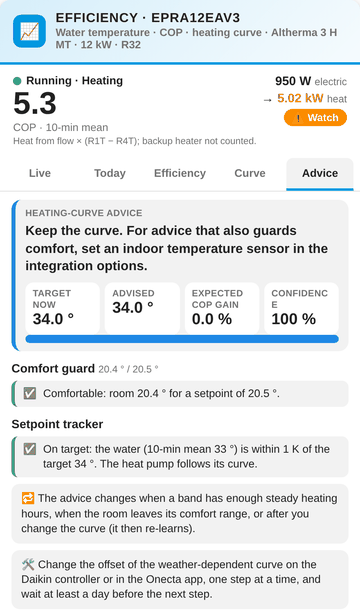
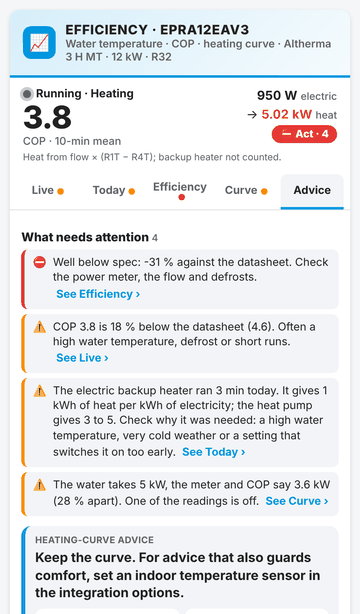
fix: Efficiency card – one list of actions behind the badge, tab dots and Advice (#476)
Part of #475.

Changed region(s): [[0.0, 0.0, 1.0, 1.0]]

diff --git a/custom_components/daikin_cycle_ml/frontend/dcm-efficiency-render.js b/custom_components/daikin_cycle_ml/frontend/dcm-efficiency-render.js
@@ -56,7 +56,8 @@
       + `<div class="big">${esc(L.running ? f.n1(cop) : "—")}</div><div class="muted">${esc(t.cop10)}</div></div>`
       + `<div class="hr"><div class="pw"><b>${esc(f.n0(L.power10 !== null ? L.power10 : L.power))} W</b> <span class="muted">${esc(t.elec)}</span></div>`
       + `<div class="pw">→ <b style="color:${C.lwt}">${esc(f.n2(L.kw10 !== null ? L.kw10 : L.kw))} kW</b> <span class="muted">${esc(t.heat_out)}</span></div>`
-      + `<div class="chip ${a.overall.lvl}">${LVL_ICON[a.overall.lvl]} ${esc(t["lvl_" + a.overall.lvl])}</div></div>`
+      + `<button class="chip ${a.overall.lvl}" data-act="todo" title="${esc(t.todo_open)}">${LVL_ICON[a.overall.lvl]} ${esc(t["lvl_" + a.overall.lvl])}`
+      + `${a.actions.length ? ` · ${a.actions.length}` : ""}</button></div>`
       + `<div class="note-s">${esc(t.heat_note)}</div></div>`;
   }
 
@@ -176,9 +177,20 @@
     return s;
   }
 
+  /* everything that needs attention, from every tab, worst first */
+  function renderTodo(a, V, t, f) {
+    const esc = P.data.esc;
+    const items = a.actions.map((x) => `<li class="vd ${x.lvl}" data-todo="${x.key}"><span class="vi">${LVL_ICON[x.lvl]}</span>`
+      + `<span>${esc(f.fill(V[x.k] || V.none, x.p, SIGNED[x.k]))}`
+      + (x.tab !== "advice" ? ` <button class="go" data-act="tab" data-tab="${x.tab}">${esc(t.todo_see)} ${esc(t["tab_" + x.tab])} ›</button>` : "")
+      + `</span></li>`).join("");
+    return `<div class="todo" id="todo">${sect(t.todo_title, a.actions.length ? String(a.actions.length) : "")}`
+      + (items ? `<ul>${items}</ul>` : `<div class="vd good"><span class="vi">${LVL_ICON.good}</span><span>${esc(t.todo_none)}</span></div>`) + `</div>`;
+  }
+
   function renderAdvice(m, a, V, t, f) {
     const A = m.advice, x = a.advice, esc = P.data.esc, L = m.live;
-    let s = `<div class="adv ${x.lvl}"><div class="tl">${esc(t.advice_title)}</div><div class="at">${esc(f.fill(V[x.k], x.p))}</div>`
+    let s = renderTodo(a, V, t, f) + `<div class="adv ${x.lvl}"><div class="tl">${esc(t.advice_title)}</div><div class="at">${esc(f.fill(V[x.k], x.p))}</div>`
       + `<div class="cells">` + tile(t.setpoint_now, f.n1(A.setpoint) + " °") + tile(t.setpoint_new, f.n1(A.target !== null ? A.target : A.setpoint) + " °")
       + tile(t.saving, f.n1(A.saving) + " %") + tile(t.confidence, f.n0(A.confidence === null ? null : A.confidence * 100) + " %") + `</div>`
       + P.charts.gauge(A.confidence === null ? null : A.confidence * 100, 100, P.charts.C.info) + `</div>`;
@@ -214,7 +226,8 @@
       + `<div class="hs">${esc(t.subtitle)}${m.meta ? " · " + esc(m.meta) : ""}</div></div></div>`;
     if (!m.ok) return head + `<div class="body"><div class="note warn">⚠ ${esc(t.not_found)}</div></div>`;
     let s = head + hero(m, a, t, f) + `<div class="tabs n${tabs.length}" role="tablist">`
-      + tabs.map((k) => `<button role="tab" class="tab${k === tab ? " on" : ""}" aria-selected="${k === tab}" data-act="tab" data-tab="${k}">${esc(t["tab_" + k])}</button>`).join("")
+      + tabs.map((k) => `<button role="tab" class="tab${k === tab ? " on" : ""}" aria-selected="${k === tab}" data-act="tab" data-tab="${k}">${esc(t["tab_" + k])}`
+        + (a.tabLvl[k] === "bad" || a.tabLvl[k] === "watch" ? `<i class="tdot ${a.tabLvl[k]}" role="img" aria-label="${esc(t["lvl_" + a.tabLvl[k]])}"></i>` : "") + `</button>`).join("")
       + `</div><div class="body">`;
     if (tab === "live") s += renderLive(m, a, V, t, f, ui, config);
     else if (tab === "today") s += renderToday(m, a, V, t, f);
@@ -225,6 +238,6 @@
     return s + `</div>`;
   }
 
-  Object.assign(P, { render: { TABS, makeFmt, render, renderHelp, helpVals } });
+  Object.assign(P, { render: { TABS, makeFmt, render, renderHelp, renderTodo, helpVals } });
   if (window.__dcmEffBoot) window.__dcmEffBoot();
 })();

diff --git a/custom_components/daikin_cycle_ml/frontend/dcm-efficiency-verdicts.js b/custom_components/daikin_cycle_ml/frontend/dcm-efficiency-verdicts.js
@@ -69,7 +69,7 @@
       td_below: "COP today {cop}, {pct} % below the datasheet ({exp}). Look at the defrosts, hot water share and short runs.",
       td_low: "COP today {cop} is well below the datasheet ({exp}). Check the Live tab for the cause.",
       ev_defrost_bad: "Defrost took {pct} % of the compressor time today ({n}×): very high. Check that the outdoor unit is free of snow, leaves and recirculating air.",
-      ev_buh: "The backup heater ran {buh} min today. It turns 1 kWh of electricity into 1 kWh of heat, the heat pump into several: check why it was needed.",
+      ev_buh: "The electric backup heater ran {buh} min today. It gives 1 kWh of heat per kWh of electricity; the heat pump gives 3 to 5. Check why it was needed: a high water temperature, very cold weather or a setting that switches it on too early.",
       ev_defrost_watch: "Defrost took {pct} % of the compressor time ({n}×): on the high side, normal in humid weather around 0 °C.",
       ev_ok_defrost: "Good: {n} defrosts ({pct} % of the compressor time), no backup heater.",
       ev_ok: "Good: no defrost and no backup heater today.",
@@ -181,7 +181,7 @@
       td_below: "COP vandaag {cop}, {pct} % onder de datasheet ({exp}). Kijk naar ontdooiingen, het warmwateraandeel en korte runs.",
       td_low: "COP vandaag {cop} ligt ruim onder de datasheet ({exp}). Kijk op het tabblad Live naar de oorzaak.",
       ev_defrost_bad: "Ontdooien nam vandaag {pct} % van de compressortijd ({n}×): erg hoog. Controleer of de buitenunit vrij is van sneeuw, bladeren en terugstromende lucht.",
-      ev_buh: "De backup-heater draaide vandaag {buh} min. Die maakt van 1 kWh stroom 1 kWh warmte, de warmtepomp meerdere: zoek uit waarom hij nodig was.",
+      ev_buh: "De elektrische bijverwarming (backup-heater) stond vandaag {buh} min aan. Die geeft 1 kWh warmte per kWh stroom; de warmtepomp geeft er 3 tot 5. Ga na waarom ze nodig was: een hoge watertemperatuur, strenge kou of een instelling die ze te vroeg inschakelt.",
       ev_defrost_watch: "Ontdooien nam {pct} % van de compressortijd ({n}×): aan de hoge kant, normaal bij vochtig weer rond 0 °C.",
       ev_ok_defrost: "Goed: {n} ontdooiingen ({pct} % van de compressortijd), geen backup-heater.",
       ev_ok: "Goed: vandaag geen ontdooiing en geen backup-heater.",
@@ -293,7 +293,7 @@
       td_below: "COP du jour {cop}, {pct} % sous la fiche ({exp}). Regardez les dégivrages, la part d'eau chaude et les cycles courts.",
       td_low: "COP du jour {cop} nettement sous la fiche ({exp}). Voyez l'onglet Direct pour la cause.",
       ev_defrost_bad: "Le dégivrage a pris {pct} % du temps compresseur aujourd'hui ({n}×) : très élevé. Vérifiez que l'unité extérieure est libre de neige, de feuilles et d'air recyclé.",
-      ev_buh: "L'appoint a fonctionné {buh} min aujourd'hui. Il transforme 1 kWh d'électricité en 1 kWh de chaleur, la pompe en plusieurs : cherchez pourquoi il a été nécessaire.",
+      ev_buh: "L'appoint électrique a fonctionné {buh} min aujourd'hui. Il donne 1 kWh de chaleur par kWh d'électricité ; la pompe à chaleur en donne 3 à 5. Vérifiez pourquoi il a été nécessaire : eau trop chaude demandée, grand froid ou réglage qui l'enclenche trop tôt.",
       ev_defrost_watch: "Le dégivrage a pris {pct} % du temps compresseur ({n}×) : plutôt élevé, normal par temps humide autour de 0 °C.",
       ev_ok_defrost: "Bien : {n} dégivrages ({pct} % du temps compresseur), pas d'appoint.",
       ev_ok: "Bien : ni dégivrage ni appoint aujourd'hui.",

diff --git a/custom_components/daikin_cycle_ml/frontend/dcm-efficiency-i18n.js b/custom_components/daikin_cycle_ml/frontend/dcm-efficiency-i18n.js
@@ -39,6 +39,7 @@
       when_change: "The advice changes when a band has enough steady heating hours, when the room leaves its comfort range, or after you change the curve (it then re-learns).",
       how_change: "Change the offset of the weather-dependent curve on the Daikin controller or in the Onecta app, one step at a time, and wait at least a day before the next step.",
       help_title: "Help", help_now: "Right now", lvl_good: "Good", lvl_watch: "Watch", lvl_bad: "Act", lvl_info: "Info",
+      todo_title: "What needs attention", todo_none: "Nothing needs attention: every check is fine.", todo_see: "See", todo_open: "Show what needs attention",
       not_found: "Daikin Cycle ML entities not found. Is the integration set up and updated?",
       h_live: [
         "The tracker compares the leaving water (10-minute mean, so a defrost or start does not count) with the target temperature of the heating curve. Within ±{trk} K is on target, more than {trkBad} K off means the unit cannot follow its curve.",
@@ -102,6 +103,7 @@
       when_change: "Het advies verandert zodra een band genoeg stabiele verwarmingsuren heeft, als de kamer buiten zijn comfortbereik komt, of nadat je de stooklijn wijzigt (hij leert dan opnieuw).",
       how_change: "Wijzig de offset van de weersafhankelijke stooklijn op de Daikin-bediening of in de Onecta-app, één stap tegelijk, en wacht minstens een dag voor de volgende stap.",
       help_title: "Uitleg", help_now: "Op dit moment", lvl_good: "Goed", lvl_watch: "Let op", lvl_bad: "Actie", lvl_info: "Info",
+      todo_title: "Wat aandacht vraagt", todo_none: "Niets vraagt aandacht: alle controles zijn in orde.", todo_see: "Zie", todo_open: "Toon wat aandacht vraagt",
       not_found: "Daikin Cycle ML-entiteiten niet gevonden. Is de integratie ingesteld en bijgewerkt?",
       h_live: [
         "De tracker vergelijkt de aanvoer (10-minutengemiddelde, zodat een ontdooiing of start niet meetelt) met de doeltemperatuur van de stooklijn. Binnen ±{trk} K is op doel, meer dan {trkBad} K ernaast betekent dat de unit zijn stooklijn niet kan volgen.",
@@ -165,6 +167,7 @@
       when_change: "Le conseil change quand une plage a assez d'heures de chauffage stable, quand la pièce sort de sa plage de confort, ou après une modification de la loi d'eau (il réapprend alors).",
       how_change: "Modifiez le décalage de la loi d'eau sur la commande Daikin ou dans l'application Onecta, un pas à la fois, et attendez au moins un jour avant le pas suivant.",
       help_title: "Aide", help_now: "En ce moment", lvl_good: "Bien", lvl_watch: "À surveiller", lvl_bad: "À corriger", lvl_info: "Info",
+      todo_title: "Points d'attention", todo_none: "Rien à signaler : tous les contrôles sont bons.", todo_see: "Voir", todo_open: "Afficher les points d'attention",
       not_found: "Entités Daikin Cycle ML introuvables. L'intégration est-elle configurée et à jour ?",
       h_live: [
         "Le suivi compare le départ (moyenne sur 10 minutes, pour qu'un dégivrage ou un démarrage ne compte pas) à la température cible de la loi d'eau. À ±{trk} K c'est sur la cible ; à plus de {trkBad} K l'unité ne suit pas sa loi d'eau.",

diff --git a/custom_components/daikin_cycle_ml/frontend/daikin-efficiency-card.js b/custom_components/daikin_cycle_ml/frontend/daikin-efficiency-card.js
@@ -30,7 +30,7 @@
 (function () {
   "use strict";
 
-  const CARD_VERSION = "1.1.0";
+  const CARD_VERSION = "1.2.0";
   const TAG = "daikin-efficiency-card";
   const EDITOR_TAG = "daikin-efficiency-card-editor";
   const PARTS = ["data", "assess", "charts", "verdicts", "i18n", "render"];
@@ -56,7 +56,12 @@
     .big { font-size: 2.4em; font-weight: 800; line-height: 1.1; font-variant-numeric: tabular-nums; }
     .hr { text-align: right; display: flex; flex-direction: column; gap: 4px; align-items: flex-end; }
     .pw { font-size: .95em; font-variant-numeric: tabular-nums; }
-    .chip { border-radius: 12px; padding: 3px 10px; font-size: .8em; font-weight: 800; color: #fff; }
+    .chip { border-radius: 12px; padding: 3px 10px; font-size: .8em; font-weight: 800; color: #fff; border: 0; font-family: inherit; cursor: pointer; }
+    .chip:focus-visible, .go:focus-visible { outline: 2px solid var(--dcm-accent, #0097E0); outline-offset: 2px; }
+    .tdot { display: inline-block; width: 8px; height: 8px; border-radius: 50%; margin-left: 4px; vertical-align: middle; }
+    .tdot.watch { background: #FB8C00; } .tdot.bad { background: #E53935; }
+    .todo { margin-bottom: 12px; } .todo ul { list-style: none; margin: 0; padding: 0; }
+    .go { border: 0; background: none; padding: 2px 0; margin-left: 4px; color: var(--dcm-accent, #0097E0); font: inherit; font-weight: 700; cursor: pointer; white-space: nowrap; }
     .chip.good { background: #43A047; } .chip.watch { background: #FB8C00; } .chip.bad { background: #E53935; } .chip.info { background: #1E88E5; }
     .note-s { grid-column: 1 / -1; font-size: .72em; color: var(--secondary-text-color); }
     .tabs { display: grid; grid-template-columns: repeat(5, 1fr); gap: 2px 4px; padding: 6px 8px 0; border-bottom: 1px solid var(--divider-color); }
@@ -125,6 +130,7 @@
     .hb { font-size: .84em; color: var(--secondary-text-color); line-height: 1.45; }
     .hb ul { margin: 4px 0 8px; padding-left: 0; list-style: none; } .hb li { margin: 3px 0; color: var(--primary-text-color); }
     .hb p { margin: 6px 0; }
+    @container (max-width: 440px) { .cells { grid-template-columns: repeat(2, 1fr); } }
     @container (max-width: 340px) { .cells, .panels { grid-template-columns: repeat(2, 1fr); } .mr { grid-template-columns: 1fr 1fr; } }
   `;
 
@@ -244,6 +250,7 @@
           const act = el.getAttribute("data-act");
           if (!act) continue;
           if (act === "tab") this._ui.tab = el.getAttribute("data-tab");
+          else if (act === "todo") this._ui.tab = "advice";
           else if (act === "range") this._ui.range = el.getAttribute("data-range");
           else if (act === "adv") this._ui.adv = !this._ui.adv;
           else if (act === "help") this._ui.help = !this._ui.help;

diff --git a/custom_components/daikin_cycle_ml/frontend/dcm-efficiency-assess.js b/custom_components/daikin_cycle_ml/frontend/dcm-efficiency-assess.js
@@ -305,7 +305,23 @@
       curve: ["curveFit", "curveLive", "carnot", "balance", "events"],
       advice: ["advice", "comfort", "tracker"],
     };
-    a.overall = worst(a.tabs.live.concat(["todayCop", "events", "sheet", "trend"]).map((k) => a[k]));
+    /* one list of what needs attention (watch / bad) over every tab, each
+       check once, at the first tab that shows it: the header badge, the
+       tab dots and the Advice tab's to-do list all read it */
+    const seen = new Set();
+    a.actions = [];
+    for (const tab of ["live", "today", "eff", "curve", "advice"]) {
+      for (const key of a.tabs[tab]) {
+        const x = a[key];
+        if (seen.has(key) || !x || (x.lvl !== "bad" && x.lvl !== "watch")) continue;
+        seen.add(key);
+        a.actions.push(Object.assign({ key, tab }, x));
+      }
+    }
+    a.actions.sort((x, y) => RANK[y.lvl] - RANK[x.lvl]);
+    a.tabLvl = {};
+    for (const tab of Object.keys(a.tabs)) a.tabLvl[tab] = worst(a.tabs[tab].map((k) => a[k])).lvl;
+    a.overall = a.actions.length ? a.actions[0] : worst(Object.keys(a.tabs).flatMap((t) => a.tabs[t]).map((k) => a[k]));
     return a;
   }
 

diff --git a/tests/test_475_efficiency_actions.py b/tests/test_475_efficiency_actions.py
@@ -1,0 +1,128 @@
+"""#475: one list of actions behind the Efficiency card's badge, tab dots and Advice.
+
+Replay of the Tweakers report: the header said "⛔ Act" while Advice said
+"Keep the curve" and nothing else. Live COP below the datasheet (watch),
+the datasheet comparison of the day critical (bad, Efficiency tab), backup
+heater minutes (watch, Today) and a heat-balance gap (watch, Curve). The
+badge, the dots and the "What needs attention" list come from the same
+list, so they cannot disagree.
+"""
+from __future__ import annotations
+
+import html as _html
+import re
+
+import pytest
+
+from tests.test_efficiency_native_card import _case, _run, _set, _text
+
+
+def _reported(lang: str) -> dict:
+    case = _set({**_case(lang), "history": {}}, "thermal_power_live", input_cop=3.8)
+    return _set(case, "cop_vs_datasheet_pct", "-31", band="critical")
+
+
+@pytest.fixture(scope="module")
+def out() -> dict:
+    cases = {lang: _reported(lang) for lang in ("en", "nl", "fr")}
+    cases["calm"] = _set(_case(), "runtime_buh_today", "0")
+    return _run(cases)
+
+
+def _todo(html: str) -> str:
+    m = re.search(r'<div class="todo" id="todo">(.*?)</ul>|<div class="todo" id="todo">(.*?)</div></div>', html, re.S)
+    assert m, html[:400]
+    return _text(m.group(0))
+
+
+def test_act_badge_is_explained_in_advice(out):
+    r = out["cases"]["en"]
+    assert r["overall"] == "bad"
+    advice = r["html"]["advice"]
+    todo = _todo(advice)
+    # the bad verdict of the Efficiency tab is listed first, with a link to that tab
+    assert todo.index("Well below spec") < todo.index("below the datasheet")
+    assert "See Efficiency ›" in todo and "See Live ›" in todo
+    # the heating-curve advice stays below the list
+    assert advice.index('id="todo"') < advice.index('class="adv ')
+
+
+def test_badge_count_matches_the_list_on_every_tab(out):
+    r = out["cases"]["en"]
+    for tab, html in r["html"].items():
+        badge = re.search(r'<button class="chip (\w+)" data-act="todo"[^>]*>(.*?)</button>', html, re.S)
+        assert badge and badge.group(1) == "bad", tab
+        n = int(badge.group(2).rsplit("·", 1)[1])
+        assert n == r["html"]["advice"].count("data-todo="), tab
+        assert n >= 3
+
+
+def test_tabs_with_something_to_do_carry_a_dot(out):
+    html = out["cases"]["en"]["html"]["live"]
+    dots = dict(re.findall(r'data-tab="(\w+)">[^<]*<i class="tdot (\w+)"', html))
+    assert dots.get("eff") == "bad" and dots.get("live") == "watch" and dots.get("today") == "watch"
+
+
+@pytest.mark.parametrize(("lang", "title", "see"), [
+    ("en", "What needs attention", "See"), ("nl", "Wat aandacht vraagt", "Zie"), ("fr", "Points d'attention", "Voir"),
+])
+def test_texts_in_every_language(out, lang, title, see):
+    advice = _html.unescape(_text(out["cases"][lang]["html"]["advice"]))
+    assert title in advice and f"{see} " in advice
+    assert "undefined" not in advice and "NaN" not in advice
+
+
+def test_nothing_to_do_says_so(out):
+    r = out["cases"]["calm"]
+    advice = r["html"]["advice"]
+    if r["overall"] in ("good", "info"):
+        assert "Nothing needs attention" in _text(advice) and "data-todo=" not in advice
+        assert "tdot" not in r["html"]["live"]
+    else:  # the fixture still has something: the list and the badge agree
+        assert advice.count("data-todo=") >= 1
+
+
+CLICKS = r"""
+const { chromium } = require('playwright'); const fs = require('fs');
+const D = JSON.parse(fs.readFileSync(0, 'utf8'));
+(async () => {
+  const b = await chromium.launch(); const p = await b.newPage({ viewport: { width: 400, height: 900 } });
+  const errors = []; p.on('pageerror', (e) => errors.push(e.message));
+  await p.setContent('<html><body><div id="c"></div></body></html>');
+  await p.addScriptTag({ content: "customElements.define('ha-card', class extends HTMLElement {});" });
+  for (const f of D.files) await p.addScriptTag({ content: fs.readFileSync(f, 'utf8') });
+  const res = await p.evaluate(async (c) => {
+    const N = Date.parse(c.now); Date.now = () => N;
+    const el = document.createElement('daikin-efficiency-card'); el.setConfig({});
+    document.getElementById('c').appendChild(el);
+    el.hass = { states: c.states, entities: c.entities, language: 'en', locale: { language: 'en' }, callWS: async () => ({}) };
+    await new Promise((r) => setTimeout(r, 50));
+    const q = (s) => el.shadowRoot.querySelector(s), tab = () => q('.tab.on').dataset.tab;
+    const out = { first: tab(), chip: q('.chip').textContent.trim(), dots: el.shadowRoot.querySelectorAll('.tdot').length };
+    q('.chip').click(); out.afterChip = tab(); out.items = el.shadowRoot.querySelectorAll('[data-todo]').length;
+    const go = q('.todo .go'); out.goTab = go.dataset.tab; go.click(); out.afterGo = tab();
+    return out;
+  }, D.case);
+  res.errors = errors; process.stdout.write(JSON.stringify(res)); await b.close();
+})().catch((e) => { process.stderr.write(String(e)); process.exit(1); });
+"""
+
+
+def test_badge_and_links_switch_tabs_in_chromium():
+    import json
+    import subprocess
+
+    from tests.test_efficiency_native_card import FRONT, ORDER, _playwright
+
+    if not _playwright():
+        pytest.skip("playwright (node) not installed")
+    proc = subprocess.run(
+        ["node", "-e", CLICKS], capture_output=True, text=True, timeout=180, check=False,
+        input=json.dumps({"files": [str(FRONT / f) for f in ORDER], "case": _reported("en")}),
+    )
+    assert proc.returncode == 0, proc.stderr
+    r = json.loads(proc.stdout)
+    assert r["errors"] == []
+    assert r["first"] == "live" and r["chip"].startswith("⛔ Act · ") and r["dots"] >= 3
+    assert r["afterChip"] == "advice" and r["items"] >= 3
+    assert r["goTab"] == "eff" and r["afterGo"] == "eff"

diff --git a/dashboard/cards/daikin-efficiency-card/README.md b/dashboard/cards/daikin-efficiency-card/README.md
@@ -89,7 +89,7 @@ verdict of the live graphs and today).
 | **Today** | COP, electricity, heat, run time, starts, cycles, defrosts, backup heater, duty cycle; per mode; COP per hour (24 h) |
 | **Efficiency** | COP over 24 h / week / month against the nominal COP; per mode; COP at A7/W35 against the datasheet; season SPF against the datasheet SCOP at 35 °C and 55 °C; COP drop at the same weather and the 30-day trend |
 | **Curve** | The heating curve: best measured water temperature per outdoor band (colour = COP, tap for details), the fitted curve, the last 48 h, now; defrost zone, backup-heater, maximum and minimum lines; 24 h backup-heater and defrost strip; Carnot efficiency, heat balance, defrost today; specifications of your model; tiles |
-| **Advice** | The heating-curve advice in plain words, target now → advised, expected COP gain, confidence, comfort guard, tracker, when the advice changes and how to change the curve |
+| **Advice** | **What needs attention** (every check of every tab that is ⚠ or ⛔, worst first, with a link to its tab), then the heating-curve advice in plain words, target now → advised, expected COP gain, confidence, comfort guard, tracker, when the advice changes and how to change the curve |
 
 ---
 
@@ -99,6 +99,13 @@ Each graph has a line under it: ✅ good, ⚠ watch, ⛔ act, ℹ info (no
 judged now, with the reason). The help section repeats the current
 verdicts of the tab and explains the graphs with the numbers of **your**
 model (datasheet in `sensor.daikin_cycle_ml_hp_specs`).
+
+**One list of actions.** The badge in the header (for example
+"⛔ Act · 2"), the dots on the tabs and **What needs attention** at the
+top of Advice come from the same list: every check that needs attention
+on any tab, each once, worst first. Tap the badge to open that list; tap
+"See …" next to an item to open the tab with its graph. When nothing
+needs attention, the list says so and the badge shows ✅ Good or ℹ Info.
 
 | Graph | Good | Watch / act |
 |---|---|---|

diff --git a/CHANGELOG.md b/CHANGELOG.md
@@ -26,7 +26,19 @@
   ERRQ011-016 (A7/W65). The Performance card now has a maximum heat from
   the datasheet for these models (#473).
 
+### Fixed
+- Efficiency card 1.2.0: the header badge could say "⛔ Act" while Advice
+  only showed "Keep the curve" (the badge took checks of other tabs that
+  no tab listed). One list of actions now feeds the badge (with the count,
+  tap opens Advice), dots on the tabs and "What needs attention" at the
+  top of Advice, worst first, each with a link to its tab (Part of #475).
+- Efficiency card: backup-heater text rewritten in EN / NL / FR (1 kWh of
+  heat per kWh against 3 to 5 for the heat pump, and the usual causes).
+
 ### Tests
+- test_475_efficiency_actions: replay of the report (Act badge with a
+  datasheet check on another tab) in EN / NL / FR, badge count = list,
+  tab dots, Chromium clicks on the badge and the links.
 - test_473_hmax_learning (bands, thresholds, migration v34, coordinator
   refresh), test_473_card (learned point in EN / NL / FR).
 - test_392_datasheet_audit: capacities pinned per product table, unverified

diff --git a/dashboard/cards/daikin-efficiency-card/CHANGELOG.md b/dashboard/cards/daikin-efficiency-card/CHANGELOG.md
@@ -1,5 +1,25 @@
 # Changelog · Efficiency card (native)
 
+## [1.2.0] - Unreleased
+
+### Added
+
+- **What needs attention** at the top of Advice: every check of every tab
+  that is ⚠ or ⛔, worst first, each with its explanation and a link to
+  the tab with the graph (#475).
+- Dots on the tabs that have something needing attention.
+
+### Fixed
+
+- The header badge said "⛔ Act" while Advice only showed "Keep the
+  curve": the badge took checks of other tabs that no tab listed. The
+  badge, the tab dots and the list now come from one list; the badge
+  shows the count and opens Advice (#475).
+- Tiles in two columns on a phone-width card (no "EXPECTE D" breaks).
+- Backup-heater text rewritten in EN / NL / FR: it gives 1 kWh of heat per
+  kWh, the heat pump 3 to 5, and the usual causes (the Dutch text was not
+  correct Dutch).
+
 ## [1.1.0] - 2026-11-21
 
 ### Added
